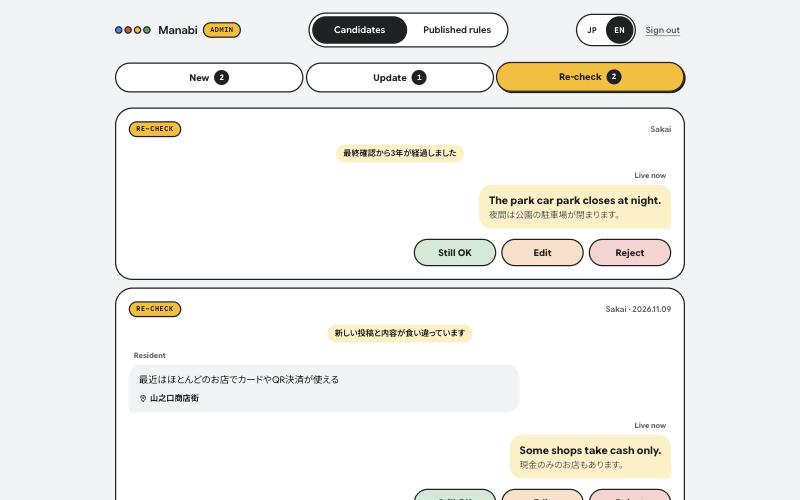
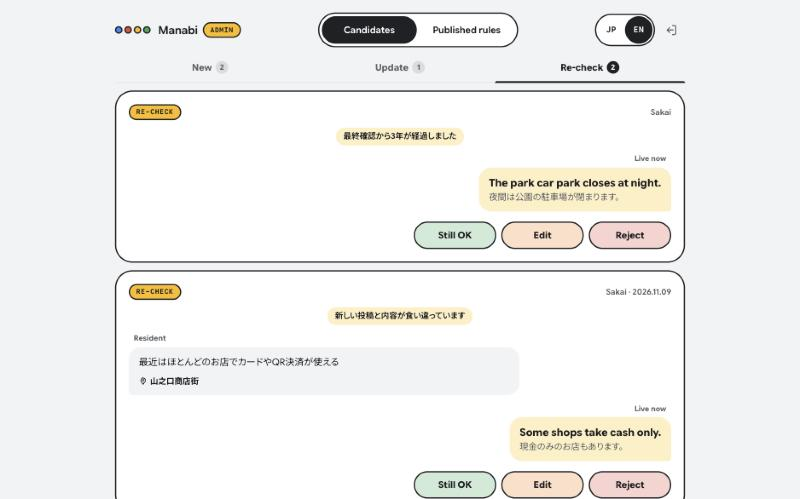
Simplify the admin header
- Sign out is an icon, so the row no longer shifts between languages
- Candidate filters become flat tabs with a sliding underline that roll
  down under the candidates switch and away on published rules
- Keep decisions and counts while switching between the two views
- Even spacing between header rows; update notes and screenshots

diff --git a/frontend/React/src/pages/AdminPage.tsx b/frontend/React/src/pages/AdminPage.tsx
@@ -1,4 +1,4 @@
-import { useState } from "react";
+import { type CSSProperties, useState } from "react";
 import { Link, useParams, useSearchParams } from "react-router";
 import { AdminHeader } from "@/components/AdminHeader";
 import { CandidateCard, type Decision } from "@/components/CandidateCard";
@@ -9,7 +9,7 @@ import { Tag } from "@/components/Tag";
 import { type Candidate, type CandidateType, sampleCandidates, ta } from "@/content/admin";
 import { categories } from "@/content/copy";
 import { formatDate, rules as publishedRules } from "@/content/rules";
-import type { Localised, Rule } from "@/content/types";
+import type { Lang, Localised, Rule } from "@/content/types";
 import { href, readLang, type Params } from "@/content/url";
 import styles from "./AdminPage.module.css";
 
@@ -27,28 +27,14 @@ export function AdminPage() {
   const params: Params = Object.fromEntries(searchParams);
   const lang = readLang(params);
   const view = area === "rules" ? "rules" : "candidates";
-
-  return (
-    <main className={styles.page} lang={lang}>
-      <AdminHeader lang={lang} current={view} />
-      <h1 className="sr-only">{ta(view === "rules" ? "publishedRules" : "candidates", lang)}</h1>
-      {view === "candidates" ? (
-        <CandidatesView lang={lang} params={params} />
-      ) : (
-        <RulesView lang={lang} />
-      )}
-    </main>
-  );
-}
-
-function CandidatesView({ lang, params }: { lang: "ja" | "en"; params: Params }) {
+  // Kept here so decisions and counts survive switching to 公開ルール and back.
   const [items, setItems] = useState<Candidate[]>(sampleCandidates);
   const tab: CandidateType = types.includes(params.type as CandidateType)
     ? (params.type as CandidateType)
     : "add";
   const pending = (type: CandidateType) =>
     items.filter((c) => c.type === type && c.status === "pending").length;
-  const shown = items.filter((c) => c.type === tab);
+  const open = view === "candidates";
 
   function decide(id: string, decision: Decision, statement?: Localised) {
     setItems((all) =>
@@ -70,24 +56,60 @@ function CandidatesView({ lang, params }: { lang: "ja" | "en"; params: Params })
   }
 
   return (
-    <>
-      <nav className={styles.tabs} aria-label={ta("candidates", lang)}>
-        {types.map((type) => (
-          <Link
-            key={type}
-            className={styles.tab}
-            data-type={type}
-            to={href("/admin/candidates", params, { type })}
-            aria-current={type === tab ? "page" : undefined}
-            replace
-          >
-            {ta(typeLabel[type], lang)}
-            <span className={styles.count}>{pending(type)}</span>
-          </Link>
-        ))}
-      </nav>
+    <main className={styles.page} lang={lang}>
+      <AdminHeader lang={lang} current={view} />
+      <h1 className="sr-only">{ta(open ? "candidates" : "publishedRules", lang)}</h1>
 
-      {shown.length > 0 && shown.every((c) => c.status !== "pending") && (
+      {/* Candidate filters roll down under 候補 and roll away on 公開ルール. */}
+      <div className={styles.filters} data-open={open || undefined} inert={!open}>
+        <div className={styles.filtersInner}>
+          <nav
+            className={styles.tabs}
+            aria-label={ta("candidates", lang)}
+            style={{ "--active": types.indexOf(tab) } as CSSProperties}
+          >
+            {types.map((type) => (
+              <Link
+                key={type}
+                className={styles.tab}
+                to={href("/admin/candidates", params, { type })}
+                aria-current={open && type === tab ? "page" : undefined}
+                replace
+              >
+                {ta(typeLabel[type], lang)}
+                <span className={styles.count}>{pending(type)}</span>
+              </Link>
+            ))}
+            <span className={styles.indicator} aria-hidden="true" />
+          </nav>
+        </div>
+      </div>
+
+      {open ? (
+        <CandidatesView
+          lang={lang}
+          items={items.filter((c) => c.type === tab)}
+          onDecide={decide}
+          onUndo={undo}
+        />
+      ) : (
+        <RulesView lang={lang} />
+      )}
+    </main>
+  );
+}
+
+type CandidatesProps = {
+  lang: Lang;
+  items: Candidate[];
+  onDecide: (id: string, decision: Decision, statement?: Localised) => void;
+  onUndo: (id: string) => void;
+};
+
+function CandidatesView({ lang, items, onDecide, onUndo }: CandidatesProps) {
+  return (
+    <>
+      {items.length > 0 && items.every((c) => c.status !== "pending") && (
         <div className={styles.empty} role="status">
           <Mascot size={72} />
           <p>{ta("noneLeft", lang)}</p>
@@ -95,15 +117,15 @@ function CandidatesView({ lang, params }: { lang: "ja" | "en"; params: Params })
       )}
 
       <ul className={styles.list}>
-        {shown.map((c) => (
-          <CandidateCard key={c.id} candidate={c} lang={lang} onDecide={decide} onUndo={undo} />
+        {items.map((c) => (
+          <CandidateCard key={c.id} candidate={c} lang={lang} onDecide={onDecide} onUndo={onUndo} />
         ))}
       </ul>
     </>
   );
 }
 
-function RulesView({ lang }: { lang: "ja" | "en" }) {
+function RulesView({ lang }: { lang: Lang }) {
   const [items, setItems] = useState<Rule[]>(publishedRules);
   const [editing, setEditing] = useState<string>();
   const [draft, setDraft] = useState<Localised>({ ja: "", en: "" });

diff --git a/frontend/React/src/pages/AdminPage.module.css b/frontend/React/src/pages/AdminPage.module.css
@@ -5,51 +5,88 @@
   padding: 0 var(--space-4) var(--space-10);
 }
 
-/* Candidate type tabs */
-.tabs {
+/* Candidate filters: flat tabs with a sliding underline, rolled away on the rules view. */
+.filters {
   position: sticky;
   top: 0;
   z-index: 2;
   display: grid;
-  grid-template-columns: repeat(3, 1fr);
-  gap: 4px;
+  grid-template-rows: 0fr;
   margin: 0 calc(var(--space-4) * -1);
-  padding: var(--space-3) var(--space-4);
+  padding: 0 var(--space-4);
   background: var(--color-bg);
+  opacity: 0;
+  transition:
+    grid-template-rows var(--duration-slow) var(--ease-out),
+    opacity var(--duration-base) ease;
+}
+
+.filters[data-open] {
+  grid-template-rows: 1fr;
+  opacity: 1;
+}
+
+.filtersInner {
+  min-height: 0;
+  overflow: hidden;
+}
+
+.tabs {
+  position: relative;
+  display: grid;
+  grid-template-columns: repeat(3, 1fr);
+  margin-top: var(--space-2);
+  border-bottom: 1px solid var(--color-divider);
 }
 
 .tab {
   display: flex;
   align-items: center;
   justify-content: center;
-  gap: var(--space-2);
+  gap: 6px;
   min-height: 48px;
+  color: var(--color-ink-soft);
   font-size: 15px;
   font-weight: 700;
-  background: var(--color-surface);
-  border: var(--border);
-  border-radius: var(--radius-full);
-  transition:
-    translate var(--duration-base) var(--ease-out),
-    box-shadow var(--duration-base) var(--ease-out);
+  transition: color var(--duration-base) ease;
 }
 
-.tab[aria-current] {
-  background: var(--color-highlight);
-  box-shadow: var(--shadow-hard-sm);
-  translate: -1px -1px;
+.tab[aria-current],
+.tab:hover {
+  color: var(--color-ink);
 }
 
 .count {
   display: grid;
   place-items: center;
-  min-width: 24px;
-  height: 24px;
-  padding: 0 6px;
-  color: var(--color-on-ink);
-  font: 700 12px var(--font-mono);
-  background: var(--color-ink);
+  min-width: 20px;
+  height: 20px;
+  padding: 0 5px;
+  color: var(--color-ink-soft);
+  font-size: 12px;
+  font-weight: 700;
+  background: var(--color-divider);
   border-radius: var(--radius-full);
+  transition:
+    color var(--duration-base) ease,
+    background-color var(--duration-base) ease;
+}
+
+.tab[aria-current] .count {
+  color: var(--color-on-ink);
+  background: var(--color-ink);
+}
+
+.indicator {
+  position: absolute;
+  bottom: -1px;
+  left: 0;
+  width: calc(100% / 3);
+  height: 3px;
+  background: var(--color-ink);
+  border-radius: 3px 3px 0 0;
+  translate: calc(var(--active, 0) * 100%) 0;
+  transition: translate var(--duration-slow) cubic-bezier(0.34, 1.3, 0.64, 1);
 }
 
 .list,
@@ -61,6 +98,7 @@
 
 .empty {
   display: flex;
+  margin-top: var(--space-3);
   align-items: center;
   gap: var(--space-4);
   padding: var(--space-4) var(--space-5);
@@ -219,8 +257,8 @@
     padding: 0 var(--space-6) var(--space-10);
   }
 
-  .tabs {
+  .filters {
     margin: 0;
-    padding: var(--space-3) 0;
+    padding: 0;
   }
 }

diff --git a/frontend/React/src/components/AdminHeader.module.css b/frontend/React/src/components/AdminHeader.module.css
@@ -6,7 +6,7 @@
     "nav nav";
   align-items: center;
   gap: var(--space-3);
-  padding: max(var(--space-3), env(safe-area-inset-top)) 0 var(--space-3);
+  padding: max(var(--space-3), env(safe-area-inset-top)) 0 0;
 }
 
 .brand {
@@ -26,7 +26,7 @@
   grid-area: end;
   display: flex;
   align-items: center;
-  gap: var(--space-2);
+  gap: var(--space-1);
 }
 
 .nav {
@@ -59,16 +59,22 @@
   background: var(--g-yellow-light);
 }
 
+/* Icon only, so the row does not shift when the language changes. */
 .signOut {
-  display: inline-flex;
-  align-items: center;
-  min-height: 44px;
-  padding: 0 var(--space-2);
+  display: grid;
+  place-items: center;
+  width: 44px;
+  height: 44px;
   color: var(--color-ink-soft);
-  font-size: 14px;
-  font-weight: 600;
-  text-decoration: underline;
-  text-underline-offset: 4px;
+  border-radius: var(--radius-full);
+  transition:
+    color var(--duration-base) ease,
+    background-color var(--duration-base) ease;
+}
+
+.signOut:hover {
+  color: var(--color-ink);
+  background: var(--color-surface);
 }
 
 @media (min-width: 600px) {

diff --git a/frontend/React/src/components/AdminHeader.tsx b/frontend/React/src/components/AdminHeader.tsx
@@ -3,6 +3,7 @@ import { ta } from "@/content/admin";
 import type { Lang } from "@/content/types";
 import { href } from "@/content/url";
 import { BrandMark } from "./BrandMark";
+import { Icon } from "./Icon";
 import { LanguageSwitch } from "./LanguageSwitch";
 import { Tag } from "./Tag";
 import styles from "./AdminHeader.module.css";
@@ -35,8 +36,13 @@ export function AdminHeader({ lang, current }: Props) {
       <div className={styles.end}>
         <LanguageSwitch />
         {current && (
-          <Link className={styles.signOut} to={href("/admin", langParam)}>
-            {ta("signOut", lang)}
+          <Link
+            className={styles.signOut}
+            to={href("/admin", langParam)}
+            aria-label={ta("signOut", lang)}
+            title={ta("signOut", lang)}
+          >
+            <Icon name="signOut" size={22} />
           </Link>
         )}
       </div>

diff --git a/frontend/React/src/components/Icon.tsx b/frontend/React/src/components/Icon.tsx
@@ -24,6 +24,9 @@ const paths = {
   check: <path d="m5 12.5 4.5 4.5L19 7.5" />,
   send: <path d="M21 3 3 10.4l7.2 2.9L13.6 21 21 3zM10.2 13.3 15 8.6" />,
   arrowUpRight: <path d="M7 17 17 7M9 7h8v8" />,
+  signOut: (
+    <path d="M14 4h3.5A2.5 2.5 0 0 1 20 6.5v11a2.5 2.5 0 0 1-2.5 2.5H14M9.5 16.5 5 12l4.5-4.5M5 12h10" />
+  ),
   pin: (
     <>
       <path d="M12 21s-6.5-6.2-6.5-11a6.5 6.5 0 0 1 13 0c0 4.8-6.5 11-6.5 11z" />

diff --git a/frontend/React/docs/design/README.md b/frontend/React/docs/design/README.md
@@ -52,7 +52,7 @@ Posts are merged and approved before they become rules, so the guide stays a cur
 
 Routes: `/admin` (sign-in), `/admin/candidates?type=add|update|review`, `/admin/rules`. Same tokens and components as the visitor side, with a 管理 tag next to the brand so admins always know where they are.
 
-- **Candidates.** Three tabs with pending counts: 新規 (add), 更新 (update), 経年確認 (re-check).
+- **Header.** One pill switch only: 候補 / 公開ルール. The candidate filters 新規 (add), 更新 (update), 経年確認 (re-check) are flat tabs with pending counts and a sliding underline; they roll down under the switch on 候補 and roll away on 公開ルール. Sign out is an icon (named ログアウト / Sign out for screen readers), so the row does not shift when the language changes. Decisions and counts are kept while switching between the two views.
 - **Each card reads as a short chat**, so it stays compact:
   - the resident (住民) on the left: their post and place, nothing else (their "why" is left out; the worry says enough);
   - the draft rule (公開案) on the right: the UI language in bold, the other language small beneath. When it would replace a live rule, that rule is quoted at the top like a chat reply (公開中);
@@ -140,7 +140,7 @@ Desktop, 900px and wider: one outlined header pill across the top (brand, search
 | `Select` | Single-choice dropdown in the app style | closed, open, invalid | ARIA select-only combobox: arrows, Home/End, Enter/Space, Escape, type to jump; closes on outside tap |
 | `GuideContent`   | Region intro, category tabs and rules inside the sheet | category tab; focused rule                   | tabs are a nav with `aria-current`, 48px; rules are an ordered list                        |
 | Rule card        | One published statement                                | default, hover, focused                      | ordered list; pin chip named "Show on map: place", 44px hit area                           |
-| `AdminHeader` | Admin brand, 候補 / 公開ルール switch, JP/EN, sign out | mobile, desktop | nav with `aria-current`; each page has a screen-reader `h1` |
+| `AdminHeader` | Admin brand, 候補 / 公開ルール switch, JP/EN, sign-out icon; candidate filter tabs roll down under it | mobile, desktop; filters open, closed | nav with `aria-current`; closed filters are `inert`; sign-out icon has an `aria-label`; each page has a screen-reader `h1` |
 | `CandidateCard` | One candidate in the admin queue, as a short chat | add, update, review; editing; approved, rejected (collapsed with undo) | list item labelled by its `h2`; editor fields labelled 日本語 / 英語; 44px buttons |
 
 ## Review states
